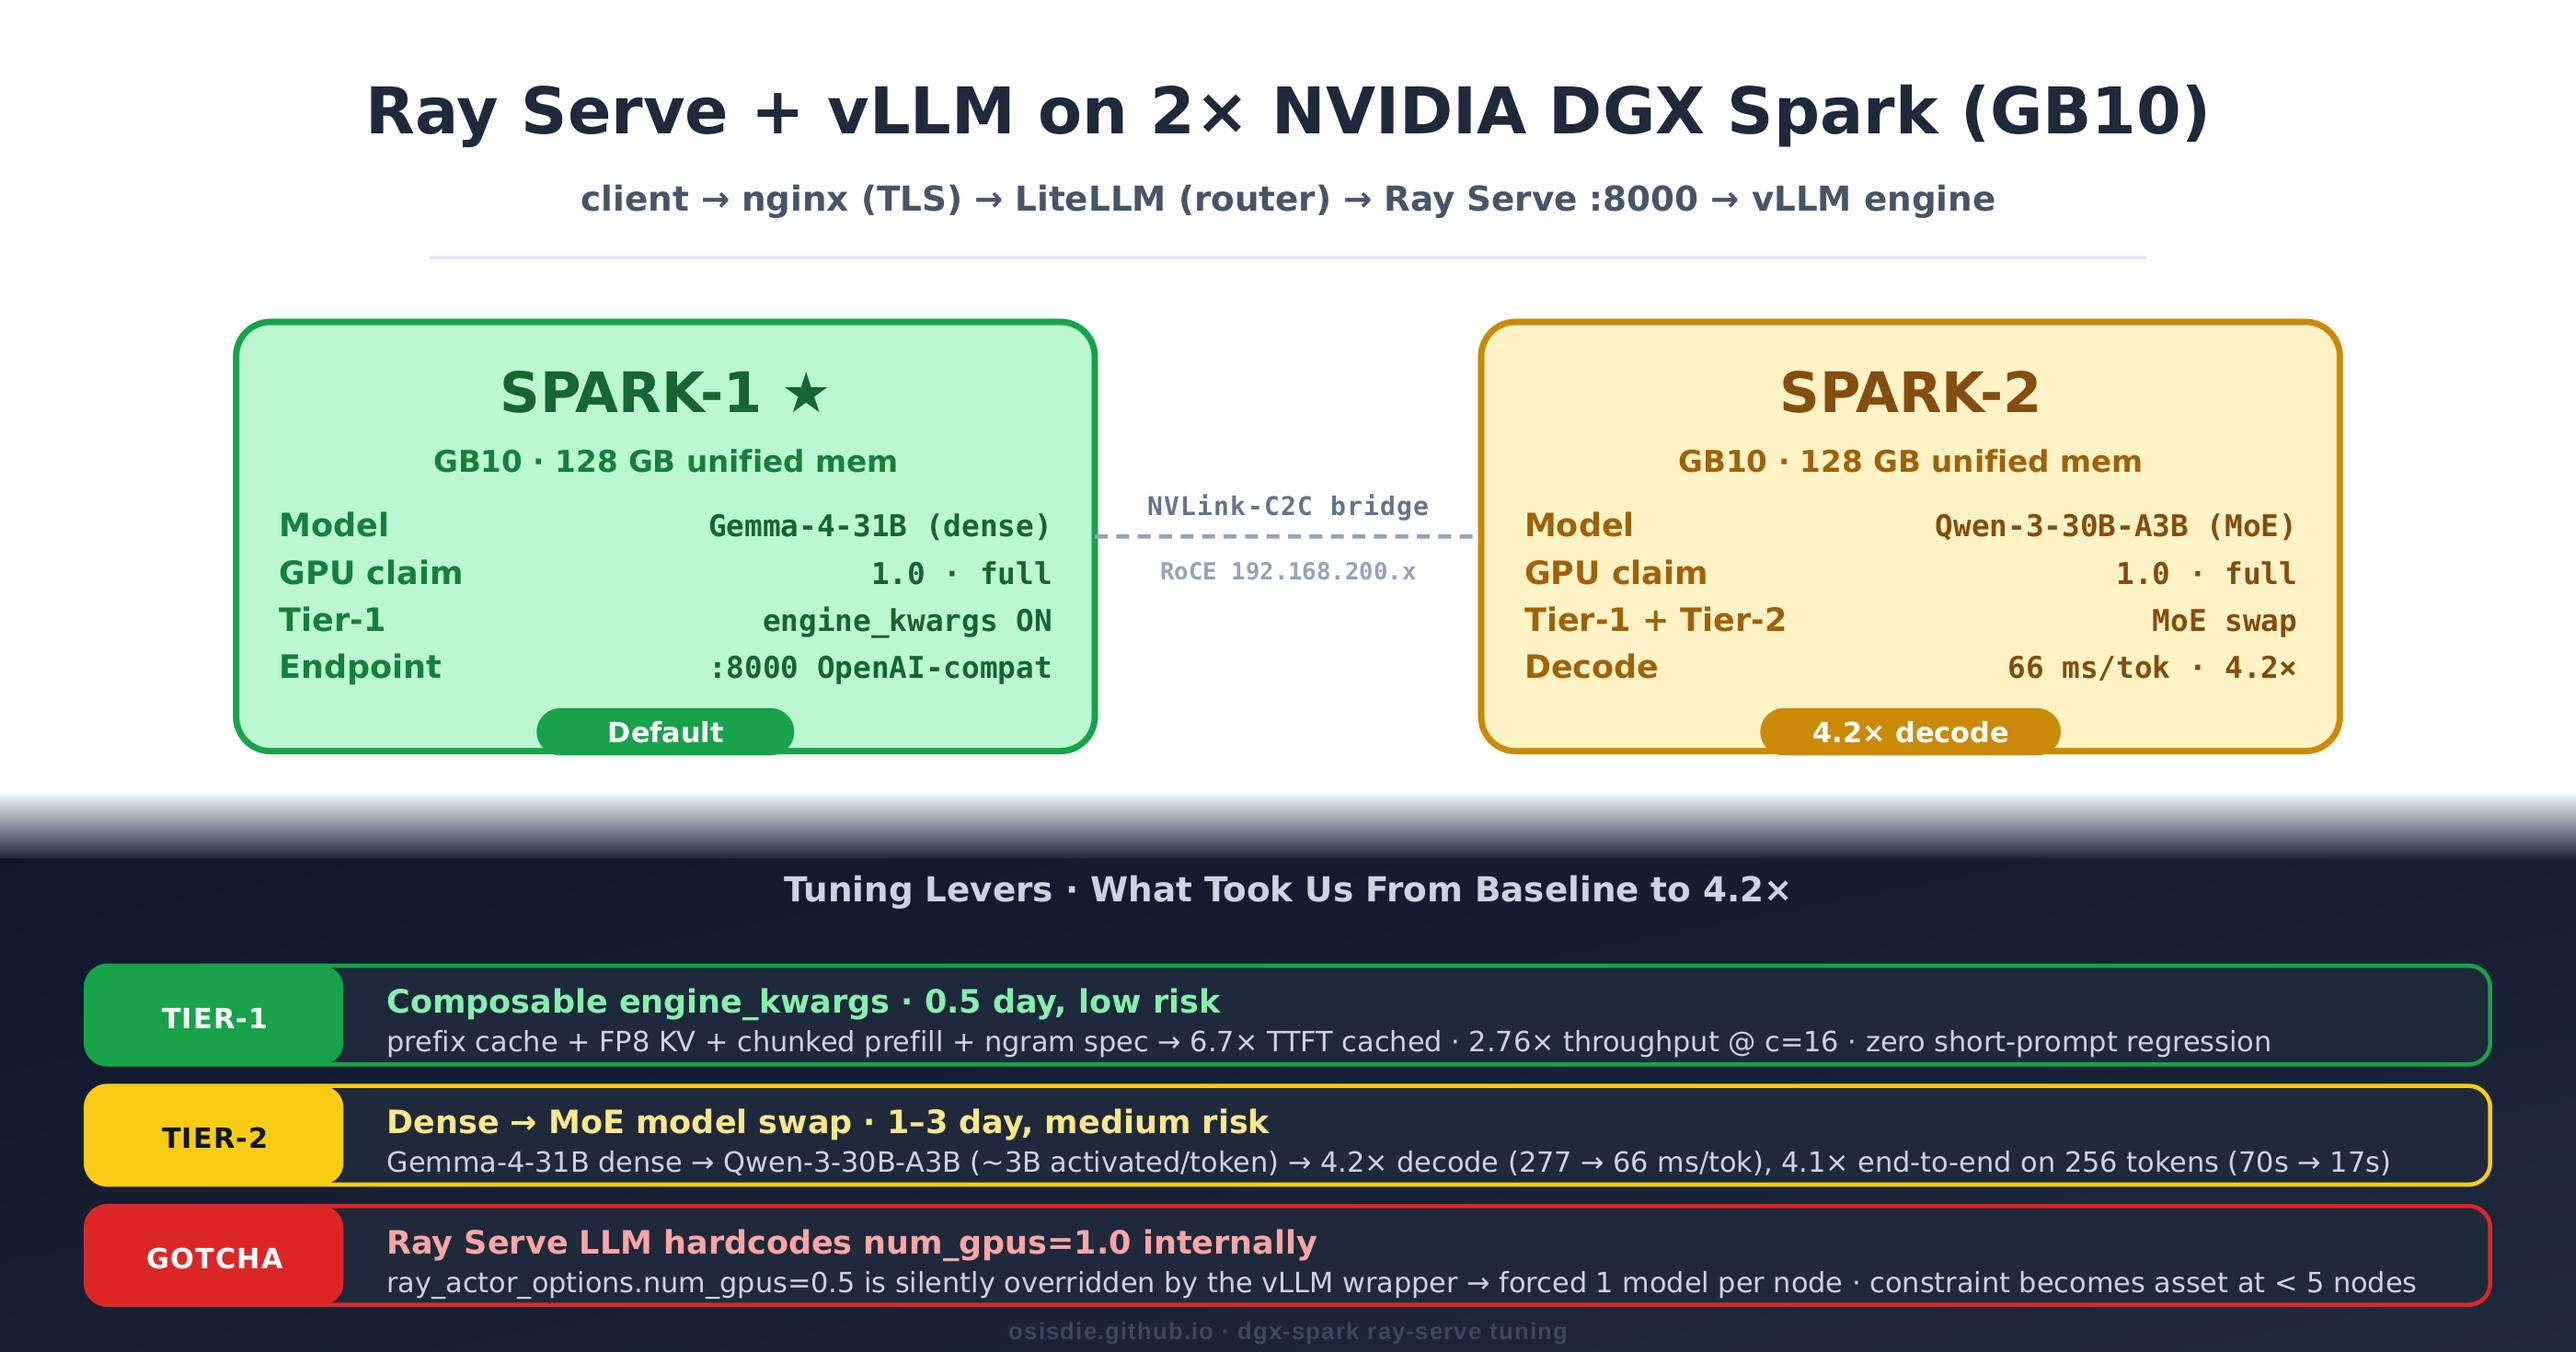
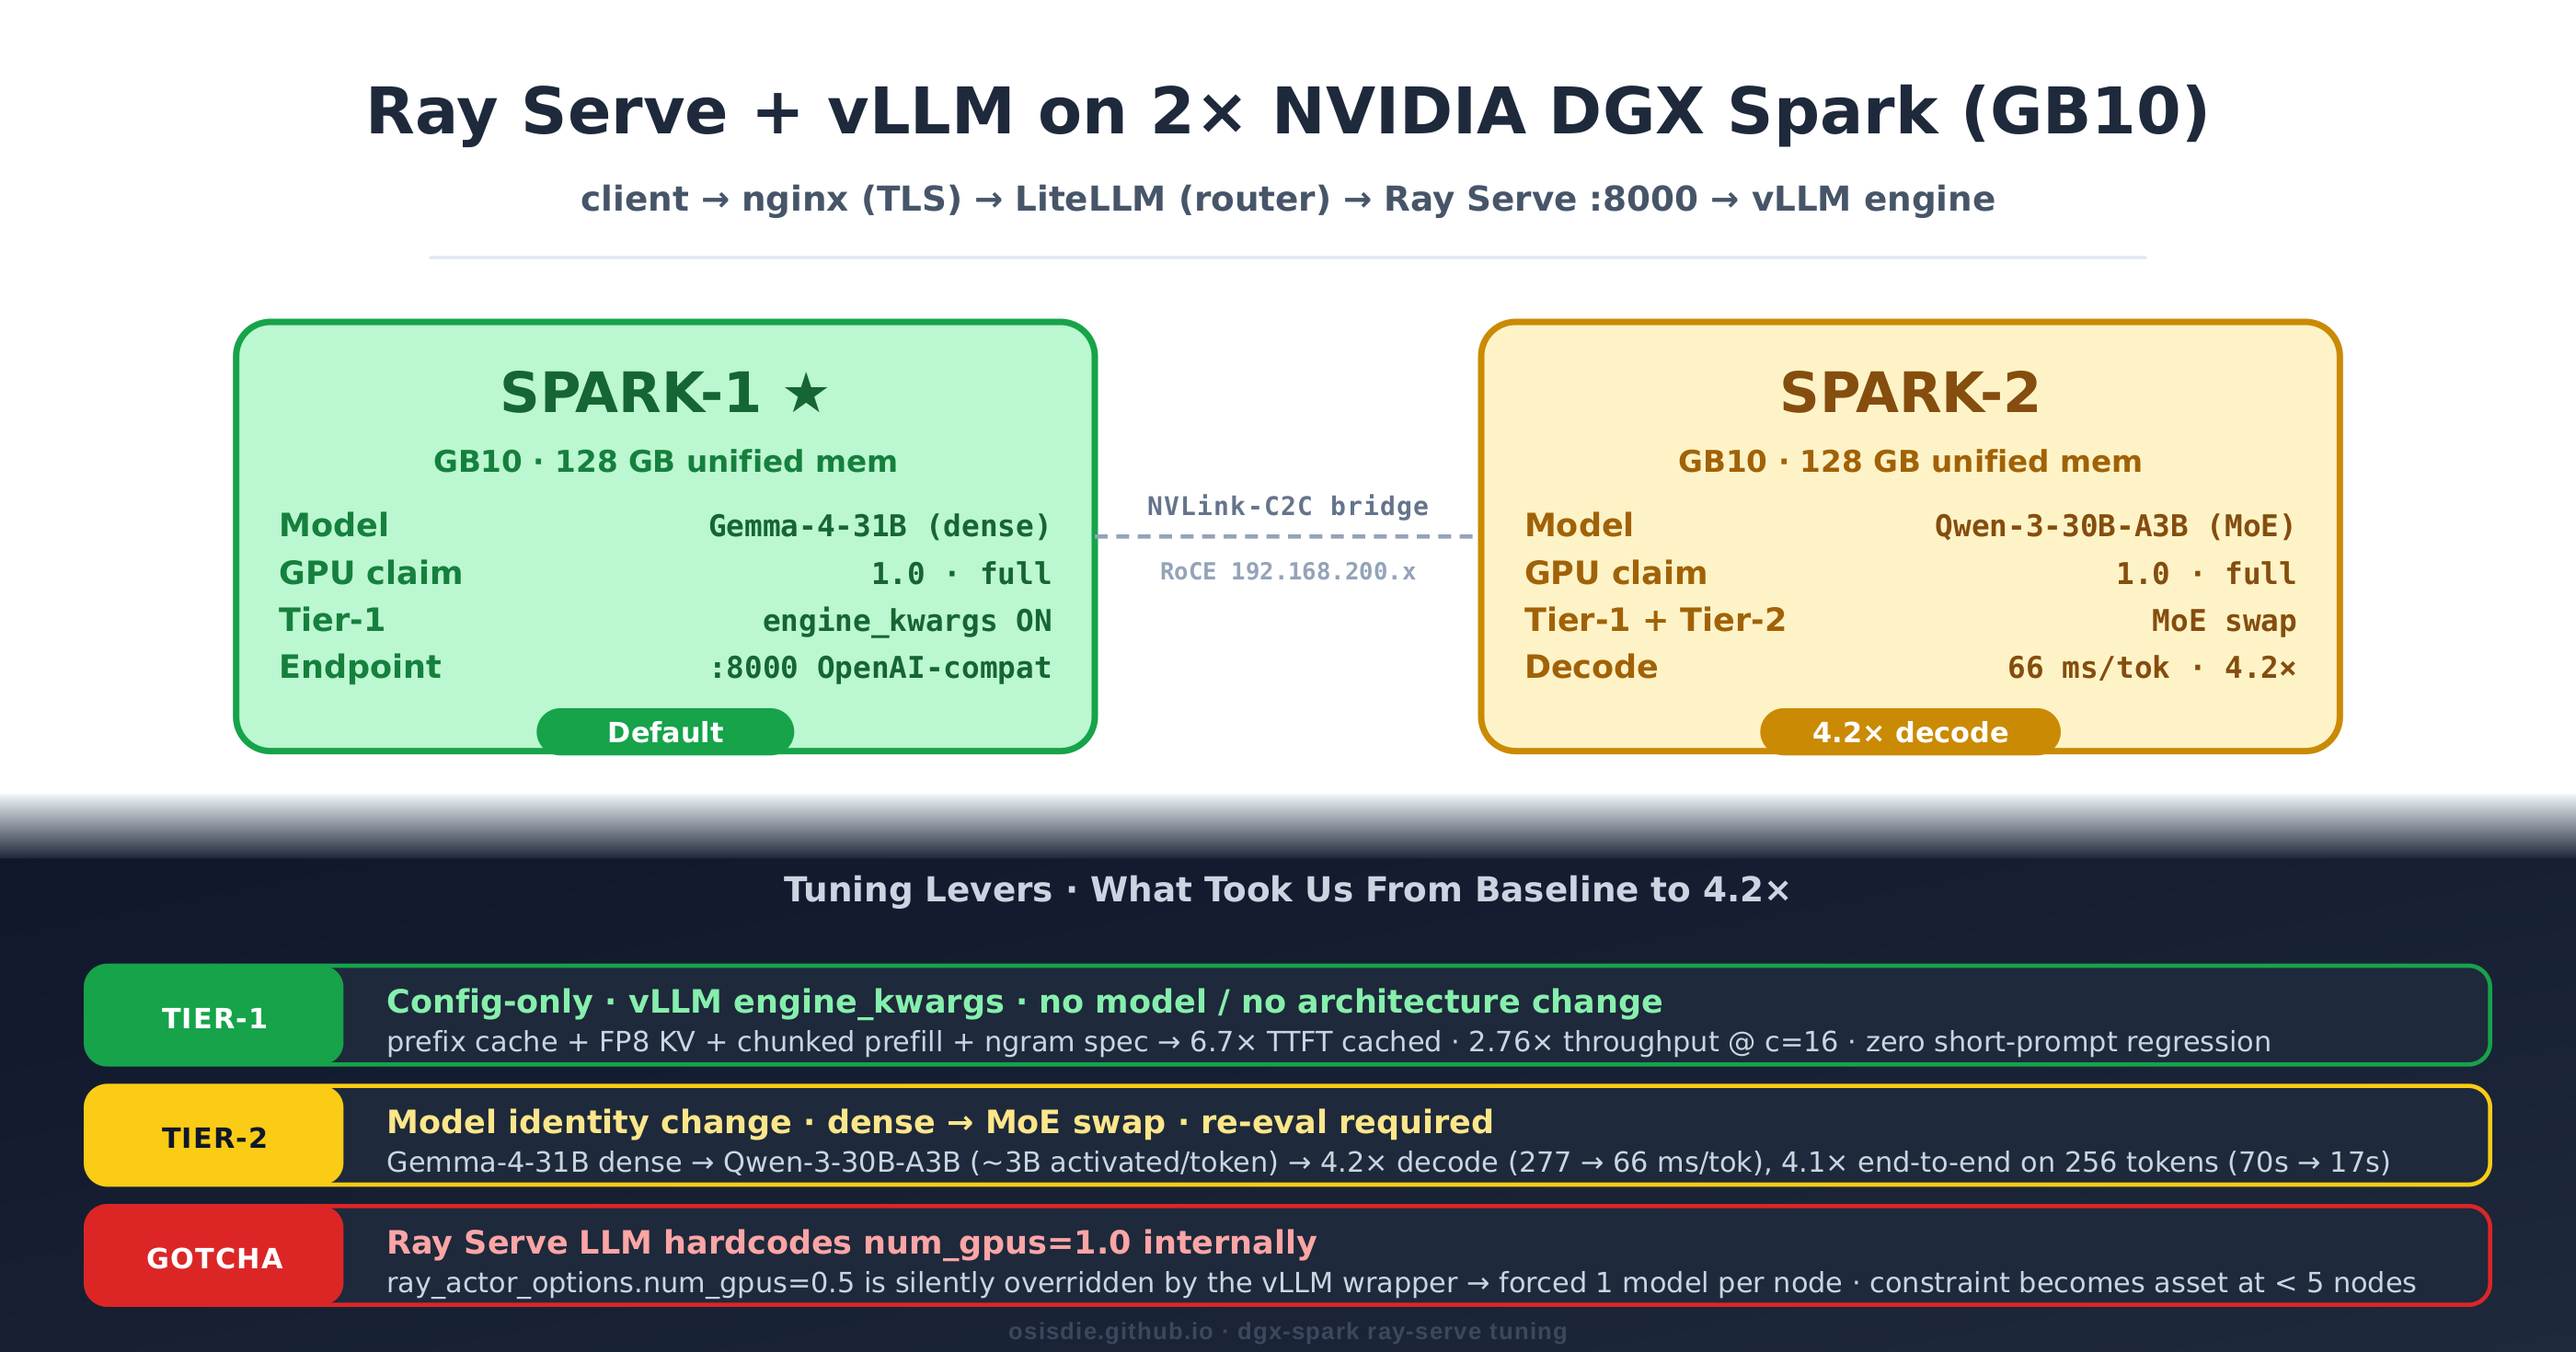
fix(post): define Tier-1/Tier-2 upfront and drop unhelpful time estimates
Two reader-feedback fixes:

1. Define Tier-1 / Tier-2 in a 用語 box before the TL;DR. Readers
   were hitting the labels cold without knowing what they meant.
   Tier-1 = config-only engine_kwargs, no model/architecture change.
   Tier-2 = model identity change (model swap or weight quantize),
   re-evaluation required.

2. Remove all time estimates ("0.5 day", "1–3 day") from both the
   post body and the architecture hero SVG / PNG. Time-to-implement
   varies wildly by team and adds no signal for the technical
   decision.

Section headings, conclusion bullets, and SVG chip subtitles all
swap "low risk / medium risk" framing for semantic descriptors:
"config-only" vs "model identity change · re-eval required".

Changed region(s): [[0.1554, 0.7347, 0.6525, 0.7653], [0.1554, 0.8265, 0.5904, 0.8571]]

diff --git a/_posts/2026/2026-05-10-dgx-spark-ray-serve-tuning.md b/_posts/2026/2026-05-10-dgx-spark-ray-serve-tuning.md
@@ -12,7 +12,14 @@ toc:
 
 {% include figure.liquid loading="eager" path="assets/img/blog/2026/dgx-spark-ray-serve-tuning/dgx-spark-ray-serve-tuning-architecture.png" class="img-fluid rounded z-depth-1" alt="Ray Serve + vLLM on 2× DGX Spark — 2 head-to-head GB10 nodes with three tuning-lever chips (Tier-1, Tier-2, Gotcha)" caption="Ray Serve + vLLM 在 2× DGX Spark 上的部署形狀，與三層 tuning lever。" %}
 
-> **TL;DR**：在兩台 **NVIDIA DGX Spark（GB10 Grace Blackwell, 128 GB unified memory）**上跑 **Ray Serve LLM + vLLM + LiteLLM + nginx**。Ray Serve LLM 內部硬寫 `num_gpus=1.0`、無視 actor option，強制「一機一模型」；這個約束在 < 5 節點規模反而促成最簡潔的部署。**Tier-1**（純 `engine_kwargs`，0.5 day）拿 **6.7× TTFT cached / 2.76× throughput @ c=16**；**Tier-2**（dense → MoE 換模型，1–3 day）拿 **4.2× decode（277 → 66 ms/token）**。
+> **本文用語**：把 LLM serving 的調整分兩層 ——
+>
+> - **Tier-1 = config-only 調整**：只動 vLLM 的 `engine_kwargs`（prefix cache、KV dtype、batch 上限等），**不換 model、不動架構、quality 風險近 0**
+> - **Tier-2 = model identity 改動**：換 model（dense → MoE）或量化權重（FP16 → FP8），**需要重跑下游 eval 確認 quality 沒退**
+>
+> 順序很重要：**Tier-1 先做完，再考慮 Tier-2**。Tier-2 量出來的數字會被「Tier-1 沒做的部分」污染。
+
+> **TL;DR**：在兩台 **NVIDIA DGX Spark（GB10 Grace Blackwell, 128 GB unified memory）**上跑 **Ray Serve LLM + vLLM + LiteLLM + nginx**。Ray Serve LLM 內部硬寫 `num_gpus=1.0`、無視 actor option，強制「一機一模型」；這個約束在 < 5 節點規模反而促成最簡潔的部署。**Tier-1**（純 `engine_kwargs`）拿 **6.7× TTFT cached / 2.76× throughput @ c=16**；**Tier-2**（dense → MoE 換模型）拿 **4.2× decode（277 → 66 ms/token）**。
 
 前兩篇談 RAG（[Hybrid vs LLM-Wiki 13 題 A/B](/blog/2026/hybrid-vs-llm-wiki-eval/) 與 [一次 LLM call 做兩件事](/blog/2026/multi-task-intent-llm/)），這篇換到下游：**承接 agent 流量的 LLM serving 怎麼讓兩台機台撐 30+ 並行 agent 串流**。重點不在「換更貴的硬體」，而是把現有硬體的 utilization 推到合理上限。
 
@@ -92,7 +99,7 @@ toc:
 
 ---
 
-## 5. Tier-1：0.5 day 拿到 6.7× TTFT / 2.76× throughput
+## 5. Tier-1：純 config 調 engine_kwargs，6.7× TTFT / 2.76× throughput
 
 純 `engine_kwargs` 改動，不換 model、不換 hardware、不改架構。每條都是 vLLM 已經實作的 flag。
 
@@ -134,7 +141,7 @@ TIER1_ENGINE_KWARGS = dict(
 
 ---
 
-## 6. Tier-2：1–3 day 換模型拿 4.2× decode
+## 6. Tier-2：換 model identity，4.2× decode
 
 Tier-1 跑完還要更快，**兩條路擇一**：
 
@@ -143,7 +150,6 @@ Tier-1 跑完還要更快，**兩條路擇一**：
 把 dense FP16 權重壓成 FP8 → memory 半 → 可以拉更大 batch。
 
 - **風險**：quality regression（要重跑下游 eval）
-- **工作量**：~1 day（quantize + smoke test）
 - **適用**：原 model 已經在 production 驗證過、不想動 model identity 的場景
 
 ### Option B：Dense → MoE 換模型（本架構走這條）
@@ -182,7 +188,7 @@ Tier-1 跑完還要更快，**兩條路擇一**：
 
 ## 8. 結論：一個 GB10-class 的通用 playbook
 
-- **Tier-1 一定先做**：composable、low risk、no architecture change，可以一條一條開、量、確認沒 regression
+- **Tier-1 一定先做**：config-only、不動 model 與架構、quality 風險近 0，可以一條一條開、量、確認沒 regression
 - **Tier-2 是「架構選擇」題**：quantize 留原 model 可控（quality 風險自己擔）；MoE 直接拿 4× 但 quality 與 tool-calling shape 要重新 evaluate
 - **Ray Serve LLM 的 `num_gpus=1.0` 強制 1-model-per-node**：這個 gotcha 把架構簡化成可預測的形狀，**規模小時這是優點**
 - **不上 K8s 的時機**：< 5 node、model 數量 ≤ node 數量、ops 團隊規模小
